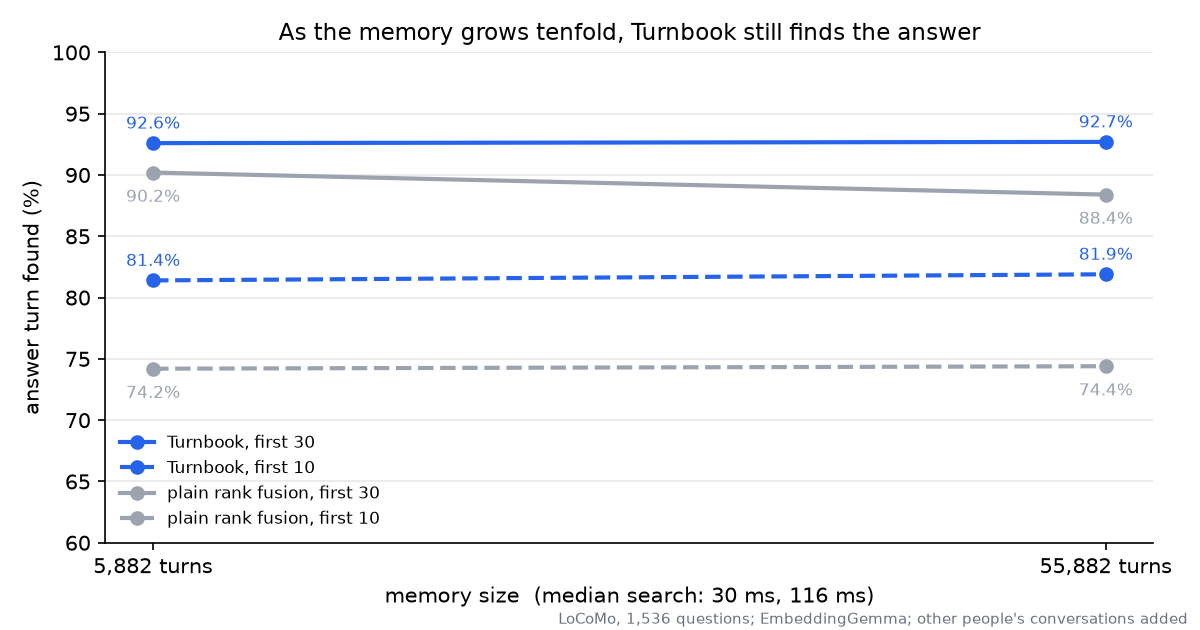
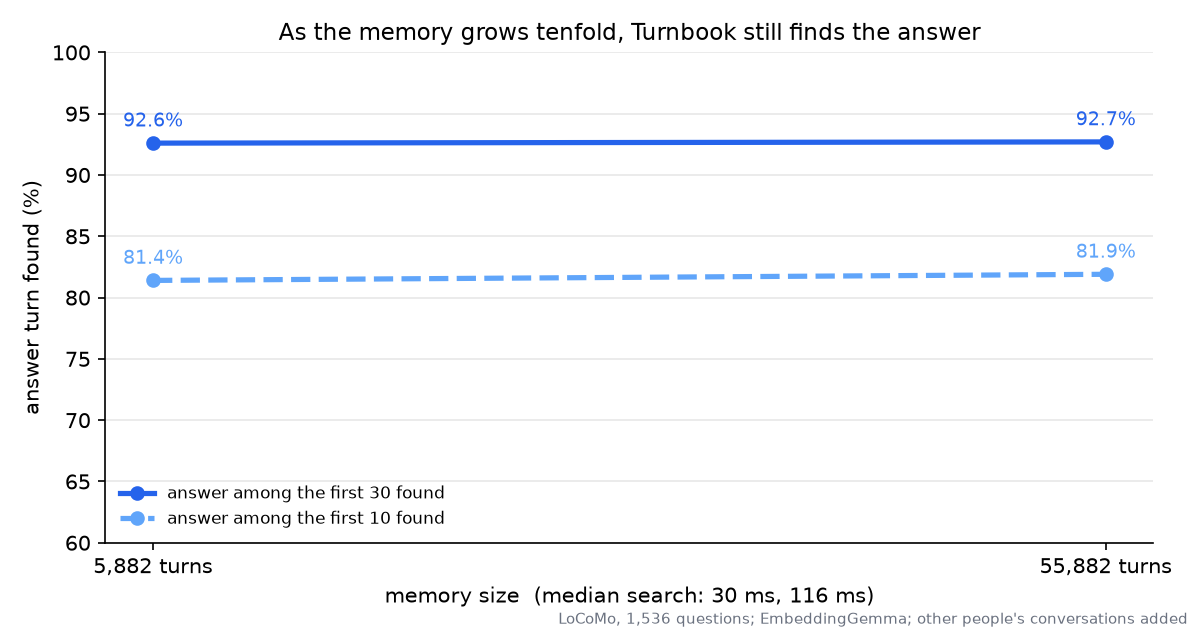
Scale chart: Turnbook's two lines only

diff --git a/research/scale_chart.py b/research/scale_chart.py
@@ -1,6 +1,6 @@
 """demo/scale.png from research/runs/graph-v9.20-learning/scale_10y-embeddinggemma-300m-ONNX.json:
-the share of LoCoMo questions whose answer turn is among the first 10 and 30 found, as the
-memory grows, for the shipped search and for plain rank fusion."""
+the share of LoCoMo questions whose answer turn is among the first 10 and 30 found as the
+memory grows (the shipped search)."""
 from pathlib import Path
 import json
 
@@ -15,17 +15,14 @@ data = json.loads((ROOT / "research/runs/graph-v9.20-learning"
 sizes = sorted({int(k.split("/")[0]) for k in data if "/" in k})
 labels = [f"{s:,} turns" for s in sizes]
 fig, ax = plt.subplots(figsize=(8, 4.2), dpi=150)
-styles = [("shipped", "hit@30", "Turnbook, first 30", "#2563eb", "-"),
-          ("shipped", "hit@10", "Turnbook, first 10", "#2563eb", "--"),
-          ("fusion (0.9.45)", "hit@30", "plain rank fusion, first 30", "#9ca3af", "-"),
-          ("fusion (0.9.45)", "hit@10", "plain rank fusion, first 10", "#9ca3af", "--")]
+styles = [("shipped", "hit@30", "answer among the first 30 found", "#2563eb", "-"),
+          ("shipped", "hit@10", "answer among the first 10 found", "#60a5fa", "--")]
 for arm, metric, name, color, line in styles:
     values = [data[f"{s}/{arm}"][metric] * 100 for s in sizes]
-    ax.plot(labels, values, line, color=color, marker="o", linewidth=2, label=name)
+    ax.plot(labels, values, line, color=color, marker="o", linewidth=2.5, label=name)
     for x, y in zip(labels, values):
-        ax.annotate(f"{y:.1f}%", (x, y), textcoords="offset points",
-                    xytext=(0, 7 if arm == "shipped" else -14),
-                    ha="center", fontsize=8, color=color)
+        ax.annotate(f"{y:.1f}%", (x, y), textcoords="offset points", xytext=(0, 8),
+                    ha="center", fontsize=9, color=color)
 ax.set_ylim(60, 100)
 ax.set_ylabel("answer turn found (%)")
 ax.set_title("As the memory grows tenfold, Turnbook still finds the answer", fontsize=11)

diff --git a/README.ko.md b/README.ko.md
@@ -218,12 +218,12 @@ Turnbook은 원문을 그대로 두고, 저장에 모델 토큰을 쓰지 않으
 ### 기억이 쌓일수록
 
 과거 대화가 많아지면 찾는 대화와 비슷한 것도 많아집니다. LoCoMo(1,536문항)에서 사람마다 기억을 다른 사람들의
-대화로 10배 늘려도, 답이 든 대화가 찾은 것 중 상위 30개 안에 든 질문은 92.7%입니다(늘기 전 92.6%). 단순
-순위 결합은 90.2%에서 88.4%로 떨어집니다. 검색 한 번은 5,882턴에서 30ms, 55,882턴에서 116ms입니다.
+대화로 10배 늘려도, 답이 든 대화가 찾은 것 중 상위 30개 안에 든 질문은 92.7%입니다(늘기 전 92.6%).
+재정렬을 끈 Turnbook은 90.2%에서 88.4%로 떨어집니다. 검색 한 번은 5,882턴에서 30ms, 55,882턴에서 116ms입니다.
 더 큰 기억은 재는 중입니다.
 [scale](research/runs/graph-v9.20-learning/scale_10y-embeddinggemma-300m-ONNX.json)
 
-<p align="center"><img src="https://raw.githubusercontent.com/goyohan0611-png/turnbook/main/demo/scale.png" alt="상위 30개 안에 답이 든 비율: 5,882턴 92.6%, 55,882턴 92.7%, 단순 순위 결합 90.2%에서 88.4%" width="720"></p>
+<p align="center"><img src="https://raw.githubusercontent.com/goyohan0611-png/turnbook/main/demo/scale.png" alt="상위 30개 안에 답이 든 비율: 5,882턴 92.6%, 55,882턴 92.7%. 상위 10개: 81.4%에서 81.9%" width="720"></p>
 
 ### 한국어에서는
 

diff --git a/README.md b/README.md
@@ -230,12 +230,12 @@ person's memory attached, gpt-5-mini solved 191, against 193 without it (p = 0.6
 
 More past conversations means more that looks like the one you mean. On LoCoMo (1,536 questions),
 with each person's memory grown tenfold by storing other people's conversations beside it, the
-answer turn stays among the first 30 found for 92.7% of questions (92.6% before it grew); plain
-rank fusion drops from 90.2% to 88.4%. A search takes 30 ms at 5,882 turns and 116 ms at 55,882.
+answer turn stays among the first 30 found for 92.7% of questions (92.6% before it grew);
+Turnbook with its re-ranker turned off drops from 90.2% to 88.4%. A search takes 30 ms at 5,882 turns and 116 ms at 55,882.
 Larger memories are being measured.
 [scale](research/runs/graph-v9.20-learning/scale_10y-embeddinggemma-300m-ONNX.json)
 
-<p align="center"><img src="https://raw.githubusercontent.com/goyohan0611-png/turnbook/main/demo/scale.png" alt="Answer turn among the first 30 found: 92.6 percent at 5,882 turns, 92.7 percent at 55,882; plain rank fusion 90.2 to 88.4 percent" width="720"></p>
+<p align="center"><img src="https://raw.githubusercontent.com/goyohan0611-png/turnbook/main/demo/scale.png" alt="Answer turn among the first 30 found: 92.6 percent at 5,882 turns, 92.7 percent at 55,882; among the first 10: 81.4 to 81.9 percent" width="720"></p>
 
 ### In Korean
 
